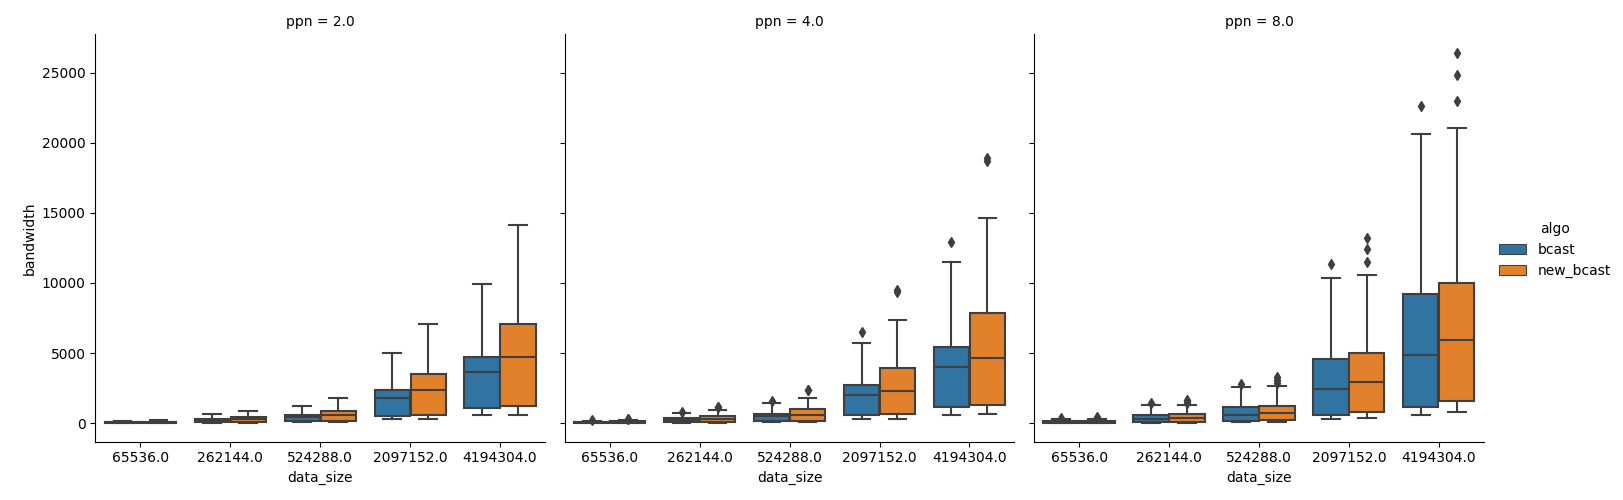
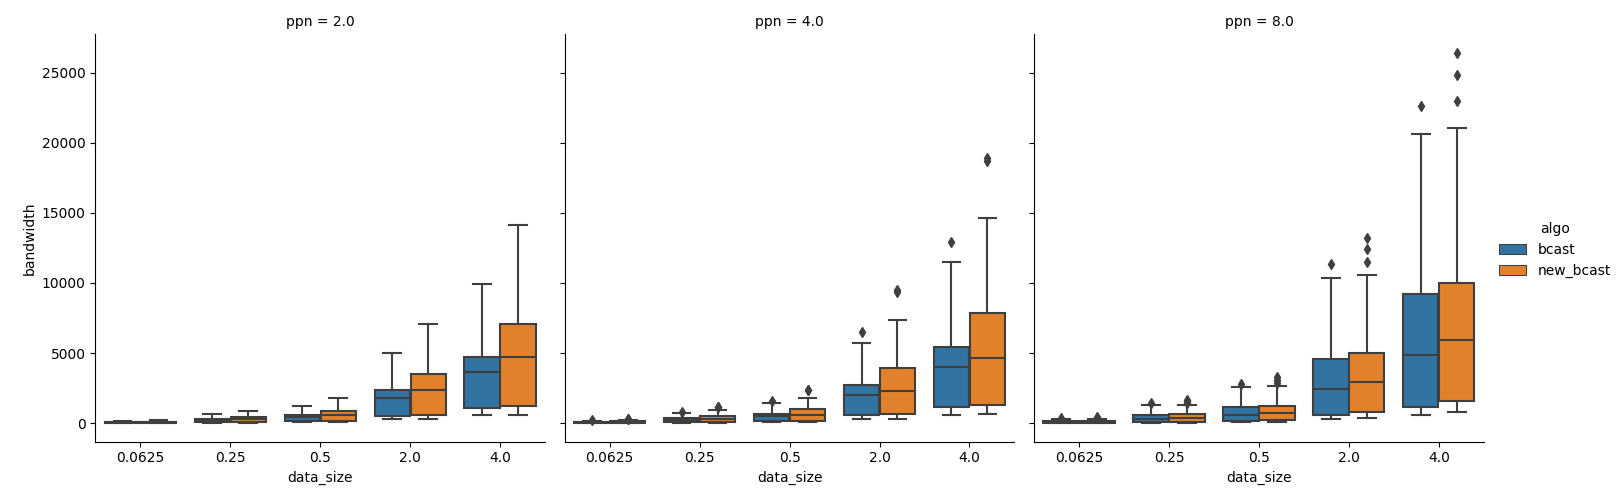
Updated plots and plot script

Changed region(s): [[0.0616, 0.9, 0.6161, 0.93], [0.647, 0.9, 0.9242, 0.93]]

diff --git a/Assignment2/2.2/plot.py b/Assignment2/2.2/plot.py
@@ -17,8 +17,8 @@ for np in [8,16,32]:
                 with open(filename, "r") as data_file:
                     times_array = [[float(digit) for digit in line.split()] for line in data_file]
                     for t in times_array:
-                        df = df.append({"ppn": ppn, "data_size": d_size, "algo": "bcast", "bandwidth": d_size*(np-1)/(t[0]*1024*1024)}, ignore_index=True)
-                        df = df.append({"ppn": ppn, "data_size": d_size, "algo": "new_bcast", "bandwidth": d_size*(np-1)/(t[1]*1024*1024)}, ignore_index = True)
+                        df = df.append({"ppn": ppn, "data_size": d_size/(1024*1024), "algo": "bcast", "bandwidth": d_size*(np-1)/(t[0]*1024*1024)}, ignore_index=True)
+                        df = df.append({"ppn": ppn, "data_size": d_size/(1024*1024), "algo": "new_bcast", "bandwidth": d_size*(np-1)/(t[1]*1024*1024)}, ignore_index = True)
 
 
     sns.catplot(kind="box", x="data_size", y="bandwidth", hue="algo", col="ppn", data=df)
